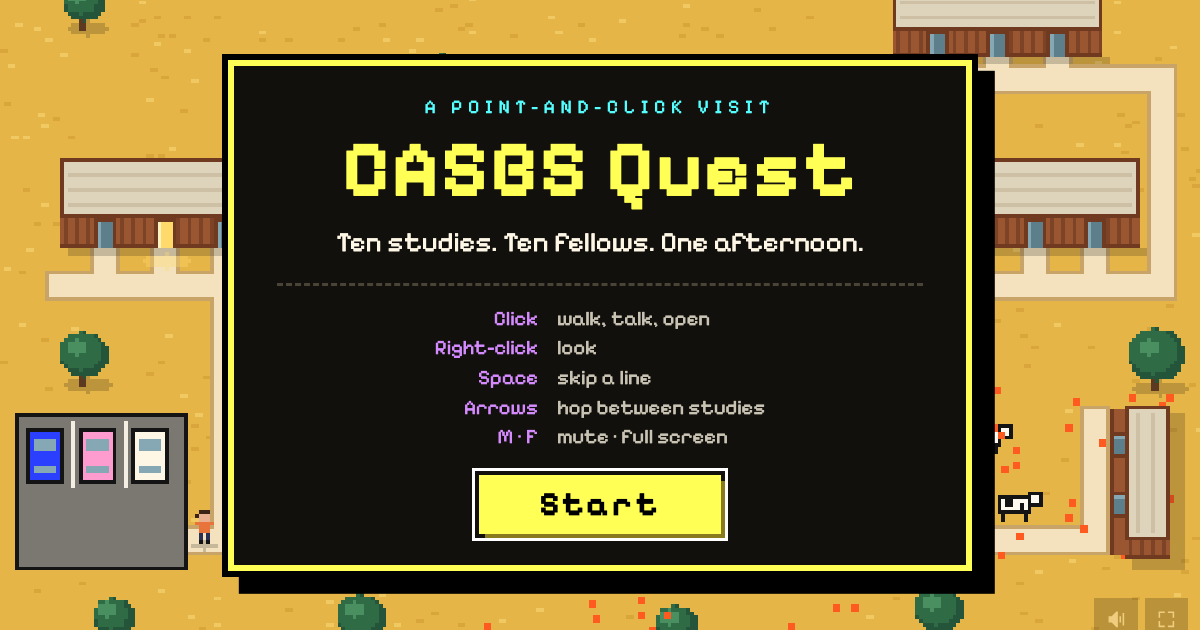
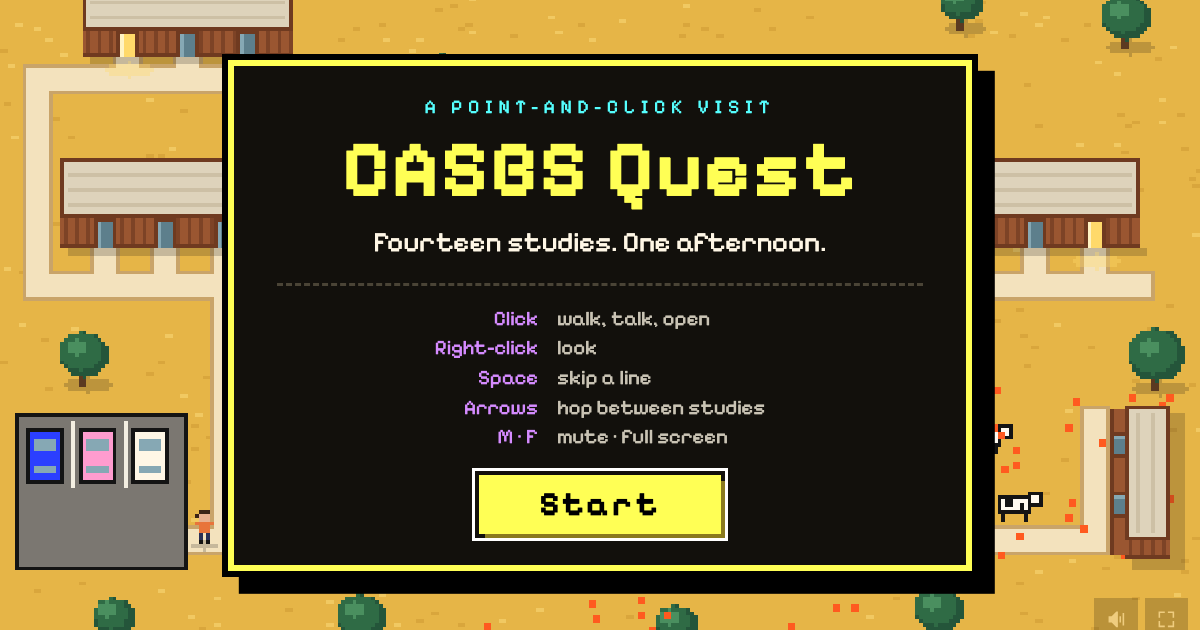
semibart: five lit studies you can walk into. Bart is now study 1 on the main hall; 2-5 open onto an empty room for now
Claude-Session: https://claude.ai/code/session_012SXcnpNP5HBdEeoRGXmBGw

diff --git a/public/semibart/index.html b/public/semibart/index.html
@@ -4,9 +4,9 @@
 <meta charset="utf-8">
 <meta name="viewport" content="width=device-width, initial-scale=1, viewport-fit=cover">
 <meta name="theme-color" content="#000000">
-<meta name="description" content="Ten studies. Ten fellows. One afternoon. A point-and-click walk through CASBS.">
+<meta name="description" content="Fourteen studies. One afternoon. A point-and-click walk through CASBS.">
 <meta property="og:title" content="CASBS Quest">
-<meta property="og:description" content="Ten studies. Ten fellows. One afternoon.">
+<meta property="og:description" content="Fourteen studies. One afternoon.">
 <meta property="og:url" content="https://ola.cx/semibart">
 <meta property="og:image" content="https://ola.cx/semibart/og.png">
 <meta property="og:image:width" content="1200">
@@ -98,7 +98,7 @@ button { font: inherit; background: none; border: 0; margin: 0; cursor: pointer;
     <div class="card">
       <p class="eyebrow">A point-and-click visit</p>
       <h1 id="titleH">CASBS Quest</h1>
-      <p class="tag">Ten studies. Ten fellows. One afternoon.</p>
+      <p class="tag">Fourteen studies. One afternoon.</p>
       <hr>
       <dl>
         <dt>Click</dt><dd>walk, talk, open</dd>
@@ -163,6 +163,10 @@ function wing(m, x, y, w, h, doorYs, side = -1) {
   rect(m, sx, y + 1, 4, h + 3, C.wall); rect(m, side < 0 ? sx : sx + 3, y + 1, 1, h + 3, C.fascia);
   doorYs.forEach(dy => { rect(m, sx, dy - 3, 4, 7, C.fascia); rect(m, gx, dy - 2, 3, 5, C.glass); rect(m, gx, dy - 2, 3, 1, C.glassHi); });
 }
+function litDoor(m, dx, top, h) {
+  rect(m, dx - 2, top, 4, h, C.lit); rect(m, dx - 2, top, 1, h, '#fff3c4');
+  oval(m, dx, top + h + 3, 6, 2, 'rgba(255,217,106,0.35)');
+}
 function oak(m, x, y, r) { oval(m, x + 1, y + r + 2, r, 2, C.shadow); rect(m, x - 1, y + r - 2, 2, 5, C.trunk); disc(m, x, y, r, C.oak2); disc(m, x - 1, y - 1, r - 1, C.oak); disc(m, x - Math.round(r / 3), y - Math.round(r / 3), Math.max(1, Math.round(r / 3)), C.oak3); }
 function car(m, x, y, col) { rect(m, x, y, 10, 15, C.ink); rect(m, x + 1, y + 1, 8, 13, col); rect(m, x + 2, y + 3, 6, 3, C.glassHi); rect(m, x + 2, y + 10, 6, 2, C.glassHi); }
 function cow(m, x, y) { rect(m, x, y + 2, 9, 5, C.ink); rect(m, x + 1, y + 3, 7, 3, '#fffaf0'); rect(m, x + 2, y + 3, 2, 2, C.ink); rect(m, x + 6, y + 4, 1, 2, C.ink); rect(m, x + 8, y + 1, 4, 4, C.ink); rect(m, x + 9, y + 2, 2, 2, '#fffaf0'); rect(m, x + 1, y + 7, 1, 2, C.ink); rect(m, x + 7, y + 7, 1, 2, C.ink); }
@@ -187,8 +191,8 @@ const mapBg = document.createElement('canvas'); mapBg.width = W; mapBg.height = 
   building(m, 128, 8, 64, 20, 10, [160], true);
   [140, 180].forEach(dx => { rect(m, dx - 3, 28, 6, 10, C.fascia); rect(m, dx - 2, 29, 4, 9, C.glass); rect(m, dx - 2, 29, 1, 9, C.glassHi); });
   building(m, 100, 98, 120, 16, 8, DOORS_C);
-  rect(m, 42, 47, 4, 7, C.lit); rect(m, 42, 47, 1, 7, '#fff3c4');
-  oval(m, 44, 57, 6, 2, 'rgba(255,217,106,0.35)');
+  // the five studies with the lights on
+  litDoor(m, 180, 29, 9); litDoor(m, 292, 47, 7); litDoor(m, 76, 47, 7); litDoor(m, 114, 115, 7);
   oak(m, 160, 79, 8);
   // the meeting room, just off the courtyard, its door facing the oak
   rect(m, 108, 77, 10, 7, C.path); rect(m, 108, 77, 10, 1, C.pathEdge); rect(m, 108, 83, 10, 1, C.pathEdge);
@@ -217,9 +221,9 @@ const mapBg = document.createElement('canvas'); mapBg.width = W; mapBg.height = 
 })();
 
 /* ---------- Bart's study ---------- */
-const roomBg = document.createElement('canvas'); roomBg.width = W; roomBg.height = H;
-(function () {
-  const m = roomBg.getContext('2d'), r = rng(23);
+function makeRoomBg(bart) {
+  const c = document.createElement('canvas'); c.width = W; c.height = H;
+  const m = c.getContext('2d'), r = rng(23);
   // wall: wood panels
   rect(m, 0, 0, W, 106, '#9a5631');
   for (let x = 0; x < W; x += 14) { rect(m, x, 4, 1, 102, '#7f4426'); rect(m, x + 1, 4, 1, 102, '#ac6a42'); }
@@ -250,6 +254,7 @@ const roomBg = document.createElement('canvas'); roomBg.width = W; roomBg.height
   rect(m, 108, 52, 1, 4, '#141414'); rect(m, 112, 52, 1, 4, '#141414'); oval(m, 110, 50, 4, 2, '#141414'); oval(m, 110, 50, 3, 1, '#fffaf0');
   rect(m, 70, 17, 2, 52, '#5c2e18'); rect(m, 95, 17, 2, 52, '#5c2e18');
   rect(m, 42, 72, 82, 3, '#5c2e18'); rect(m, 42, 72, 82, 1, '#c27e52');
+  if (bart) {
   // Takt poster
   rect(m, 130, 16, 22, 32, '#141414');
   rect(m, 134, 19, 14, 3, '#f0efea'); rect(m, 139, 22, 4, 9, '#f0efea');
@@ -258,6 +263,7 @@ const roomBg = document.createElement('canvas'); roomBg.width = W; roomBg.height
   rect(m, 158, 20, 30, 24, '#5c2e18'); rect(m, 160, 22, 26, 20, '#d9b48a');
   rect(m, 162, 24, 7, 7, '#ffd93b'); rect(m, 171, 25, 7, 6, '#ff9ccf'); rect(m, 163, 33, 8, 6, '#7ee0b5'); rect(m, 174, 33, 9, 7, '#fff7e6'); rect(m, 181, 24, 2, 2, '#ff5a1f');
   rect(m, 175, 35, 6, 1, '#2b3fff'); rect(m, 175, 37, 4, 1, '#2b3fff');
+  }
   // bookshelf
   rect(m, 266, 10, 48, 96, '#5c2e18'); rect(m, 269, 13, 42, 90, '#3d2112');
   const cols = ['#ff5a1f', '#2b3fff', '#ffd93b', '#ff9ccf', '#7ee0b5', '#fff7e6', '#c46a4a', '#34446e', '#2f6b45'];
@@ -267,8 +273,10 @@ const roomBg = document.createElement('canvas'); roomBg.width = W; roomBg.height
     while (x < 309) { const w = 2 + Math.floor(r() * 3), h = 10 + Math.floor(r() * 5); if (r() < 0.1 && k) { x += 4; continue; } rect(m, x, sy + 16 - h, Math.min(w, 309 - x), h, cols[Math.floor(r() * cols.length)]); x += w + (r() < 0.3 ? 1 : 0); }
   });
   // chair back
-  rect(m, 170, 58, 40, 3, '#141414'); rect(m, 168, 61, 44, 36, '#141414'); rect(m, 170, 61, 40, 36, '#3b3d4a'); rect(m, 170, 61, 40, 1, '#4f5262');
-})();
+  if (bart) { rect(m, 170, 58, 40, 3, '#141414'); rect(m, 168, 61, 44, 36, '#141414'); rect(m, 170, 61, 40, 36, '#3b3d4a'); rect(m, 170, 61, 40, 1, '#4f5262'); }
+  return c;
+}
+const roomBg = makeRoomBg(true), roomBgEmpty = makeRoomBg(false);
 
 /* ---------- characters ---------- */
 const P = { W: '#f6f3ec', w: '#d9d5c9', S: '#f2bda6', s: '#dc9d88', r: '#ee9f8f', b: '#e3dccb', E: '#3c5a80', M: '#b8695c', K: '#3a1c18', O: '#ffffff', N: '#1c2540', n: '#34446e', T: '#f2efe6', G: '#e2b23c', L: '#4a3a1e' };
@@ -344,18 +352,21 @@ const mapFull = document.createElement('canvas'); mapFull.width = W; mapFull.hei
   for (let i = 0; i < 120; i++) { const y = r() < 0.5 ? r() * OY : FH - OY + r() * OY; rect(m, r() * W, y, 2, 1, r() < 0.6 ? C.grass2 : C.grass3); }
   m.drawImage(mapBg, 0, OY);
   building(m, 22, 2, 56, 12, 7, DOORS_TOP);
+  litDoor(m, 34, 15, 6);
   [[256, 6, 5], [300, 10, 6], [96, 170, 6], [180, 172, 5], [250, 168, 6], [30, 170, 5]].forEach(o => oak(m, o[0], o[1], o[2]));
   for (let i = 0; i < 14; i++) rect(m, 120 + r() * 120, 164 + r() * 14, 2, 2, C.orange);
 })();
-const roomFull = document.createElement('canvas'); roomFull.width = W; roomFull.height = FH;
-(function () {
-  const m = roomFull.getContext('2d'), r = rng(5);
+function makeRoomFull(bg) {
+  const c = document.createElement('canvas'); c.width = W; c.height = FH;
+  const m = c.getContext('2d'), r = rng(5);
   rect(m, 0, 0, W, OY, '#d9c9a8'); rect(m, 0, OY - 3, W, 3, '#bfae8c');
   for (let x = 0; x < W; x += 40) rect(m, x, 0, 3, OY - 3, '#cbb994');
   rect(m, 150, 0, 2, 6, '#3b3d4a'); rect(m, 140, 6, 22, 5, '#ffd96a'); rect(m, 140, 6, 22, 1, '#fff3c4');
-  m.drawImage(roomBg, 0, OY);
+  m.drawImage(bg, 0, OY);
   for (let y = OY + H; y < FH; y += 3) { rect(m, 0, y, W, 3, (y / 3) % 2 ? '#c9a77a' : '#bf9c6e'); for (let k = 0; k < 3; k++) rect(m, Math.floor(r() * W), y, 1, 3, '#a8865b'); }
-})();
+  return c;
+}
+const roomFull = makeRoomFull(roomBg), roomFullEmpty = makeRoomFull(roomBgEmpty);
 
 /* ---------- sound ---------- */
 let AC = null, master = null, muted = false;
@@ -497,10 +508,20 @@ async function knockAndEnter() {
   SFX.knock(); await say('you', 'Knock, knock.');
   await enterRoom();
 }
+async function enterEmpty() {
+  SFX.knock(); await say('you', 'Knock, knock.');
+  await wait(0.5); await say('you', 'Nobody. The door is open, though.');
+  SFX.creak();
+  await fadeTo(true);
+  S.scene = 'room'; S.room = 'empty'; S.x = 30; S.y = 132; S.face = 1; S.path = [];
+  await fadeTo(false);
+  await walkTo([{ x: 120, y: 134 }]);
+  await say('you', "Empty. Nobody's moved in yet.");
+}
 async function enterRoom() {
   SFX.creak();
   await fadeTo(true);
-  S.scene = 'room'; S.x = 30; S.y = 132; S.face = 1; S.path = []; S.bart.mode = S.met ? 'idle' : 'type';
+  S.scene = 'room'; S.room = 'bart'; S.x = 30; S.y = 132; S.face = 1; S.path = []; S.bart.mode = S.met ? 'idle' : 'type';
   await fadeTo(false);
   await walkTo([{ x: 120, y: 134 }]);
   if (!S.met) {
@@ -518,7 +539,7 @@ async function exitRoom() {
   await goTo({ x: 40, y: 132 }); S.face = -1;
   SFX.creak();
   await fadeTo(true);
-  S.scene = 'map'; S.x = 44; S.y = 60; S.path = [];
+  S.scene = 'map'; S.x = S.door.walk.x; S.y = S.door.walk.y; S.path = [];
   await fadeTo(false);
 }
 async function ringPhone() {
@@ -536,7 +557,7 @@ async function lookPhone() {
   SFX.unzoom(); screenEl.hidden = true; S.zoomT = -1; cv.style.transform = '';
   await say('bart', 'Well?');
   await say('you', 'Eins, zwei, drei, vier.');
-  await say('bart', 'You found it. Nine more studies. Go knock.');
+  await say('bart', 'You found it. Thirteen more studies. Go knock.');
 }
 async function talkBart() {
   await say('you', S.talked ? 'Me again.' : 'Hi, Bart.');
@@ -570,11 +591,14 @@ async function talkBart() {
   }
 }
 
-const NOTES = { 2: 'At lunch. Lunch is sacred.', 3: 'Thinking under the oak.', 4: 'Back in five. Five what, unclear.', 5: 'In a seminar. Possibly this one.',
-  6: 'Walking to the Dish. Not listening to it.', 7: 'Writing. Do not knock. (You knocked.)', 8: 'Gone to see the cows. For research.', 9: 'Napping counts as fieldwork.', 10: 'Back after this paragraph.' };
+const NOTES = { 6: 'At lunch. Lunch is sacred.', 7: 'Thinking under the oak.', 8: 'Back in five. Five what, unclear.', 9: 'In a seminar. Possibly this one.',
+  10: 'Walking to the Dish. Not listening to it.', 11: 'Writing. Do not knock. (You knocked.)', 12: 'Gone to see the cows. For research.', 13: 'Napping counts as fieldwork.', 14: 'Back after this paragraph.' };
+function litStudy(n, r, walk) {
+  return { name: 'Study ' + n, study: true, r, walk, def: 'open', on: { look: n === 1 ? "Study 1. The light's on. Someone's typing in there." : `Study ${n}. The light's on.`, open: n === 1 ? knockAndEnter : enterEmpty } };
+}
 function lockedStudy(n, x, y) {
   return {
-    name: 'Study ' + n, r: y < 20 ? [x - 8, -16, 16, 20] : x > 290 ? [294, y - 8, 20, 16] : [x - 8, y < 98 ? 30 : 98, 16, 26], walk: y < 20 ? { x, y: 9 } : x > 290 ? { x: 292, y } : { x, y: y < 98 ? 60 : 128 }, def: 'open',
+    name: 'Study ' + n, study: true, r: y < 20 ? [x - 8, -16, 16, 20] : x > 290 ? [294, y - 8, 20, 16] : [x - 8, y < 98 ? 30 : 98, 16, 26], walk: y < 20 ? { x, y: 9 } : x > 290 ? { x: 292, y } : { x, y: y < 98 ? 60 : 128 }, def: 'open',
     on: {
       look: `Study ${n}. Dark. There's a note on the door.`,
       open: async () => { SFX.rattle(); await say('you', `Locked. The note says: "${NOTES[n]}"`); }
@@ -582,9 +606,10 @@ function lockedStudy(n, x, y) {
   };
 }
 const MAP = [
-  { name: 'Study 1', r: [34, 30, 20, 26], walk: { x: 44, y: 60 }, def: 'open', on: { look: "Study 1. The light's on. Someone's typing in there.", open: knockAndEnter } },
-  lockedStudy(2, 228, 60), lockedStudy(3, 276, 60), lockedStudy(4, 190, 128), lockedStudy(5, 130, 128),
-  lockedStudy(6, 34, 9), lockedStudy(7, 50, 9), lockedStudy(8, 66, 9), lockedStudy(9, 300, 106), lockedStudy(10, 300, 122),
+  litStudy(1, [172, 22, 16, 18], { x: 180, y: 44 }), litStudy(2, [26, -16, 16, 20], { x: 34, y: 9 }), litStudy(3, [284, 30, 16, 26], { x: 292, y: 60 }),
+  litStudy(4, [68, 30, 16, 26], { x: 76, y: 60 }), litStudy(5, [106, 98, 16, 26], { x: 114, y: 128 }),
+  lockedStudy(6, 44, 60), lockedStudy(7, 228, 60), lockedStudy(8, 276, 60), lockedStudy(9, 190, 128), lockedStudy(10, 130, 128),
+  lockedStudy(11, 50, 9), lockedStudy(12, 66, 9), lockedStudy(13, 300, 106), lockedStudy(14, 300, 122),
   { name: 'main hall', r: [128, 8, 64, 30], walk: { x: 160, y: 44 }, def: 'open', on: { look: 'The main hall. Lounge, mailboxes, coffee.', open: "Just the lounge. Nobody's in. Everybody's in their study." } },
   { name: 'meeting room', r: [80, 66, 30, 30], walk: { x: 112, y: 80 }, def: 'open', on: { look: 'The meeting room. Seminars happen in there. Like this one.', open: "Not yet. I haven't visited the studies." } },
   { name: 'picnic table', r: [122, 73, 20, 16], walk: { x: 132, y: 64 }, def: 'look', on: { look: 'A picnic table. Someone carved a regression line into it.', use: 'I sit for a second. Very restorative. Back to it.' } },
@@ -594,7 +619,12 @@ const MAP = [
   { name: 'cow', r: [252, 96, 30, 32], walk: { x: 240, y: 112 }, def: 'talk', on: { look: 'A cow. Looks tenured.', talk: [['you', 'Moo.'], ['cow', 'Moo.']] } },
   { name: 'parking lot', r: [4, 98, 46, 42], walk: { x: 54, y: 132 }, def: 'look', on: { look: 'Three cars. Nobody biked today.' } }
 ];
-const STUDIES = MAP.slice(0, 10);
+const STUDIES = MAP.filter(h => h.study);
+const ROOM_EMPTY = [
+  { name: 'bookshelf', r: [266, 10, 48, 90], walk: { x: 284, y: 132 }, def: 'look', on: { look: 'Books left by the last fellow. Mostly about time.', push: 'No secret passage. I checked.' } },
+  { name: 'window', r: [44, 14, 78, 60], walk: { x: 84, y: 130 }, def: 'look', on: { look: 'Same hills, same Dish. Good office, nobody in it.' } },
+  { name: 'door', r: [4, 30, 32, 76], walk: { x: 40, y: 132 }, def: 'open', on: { look: 'The way out.', open: exitRoom } }
+];
 const ROOM = [
   { name: 'plant', r: [284, 100, 22, 32], walk: { x: 270, y: 134 }, def: 'talk', on: { look: "It's thriving. Someone waters it.", talk: 'I tell the plant about my research. It grows a little.' } },
   { name: 'coffee mug', r: [204, 86, 13, 12], walk: { x: 212, y: 130 }, def: 'pick', on: { look: 'Coffee. Still hot. The mug says TAKT.', pick: "It's Bart's. He'd notice. He'd definitely notice." } },
@@ -608,9 +638,9 @@ const ROOM = [
   { name: 'pinboard', r: [158, 20, 30, 24], walk: { x: 172, y: 130 }, def: 'look', on: { look: 'Sticky notes. One says: ASK CLAUDE.' } },
   { name: 'bookshelf', r: [266, 10, 48, 90], walk: { x: 284, y: 132 }, def: 'push', on: { look: 'Social science. Lots of it.', push: 'No secret passage. I checked.' } },
   { name: 'window', r: [44, 14, 78, 60], walk: { x: 84, y: 130 }, def: 'look', on: { look: 'The hills, the Dish, Stanford down below. Good office.' } },
-  { name: 'door', r: [4, 30, 32, 76], walk: { x: 40, y: 132 }, def: 'open', on: { look: 'The way out. Nine more studies out there.', open: exitRoom } }
+  { name: 'door', r: [4, 30, 32, 76], walk: { x: 40, y: 132 }, def: 'open', on: { look: 'The way out. Thirteen more studies out there.', open: exitRoom } }
 ];
-function hotspots() { return S.scene === 'map' ? MAP : ROOM; }
+function hotspots() { return S.scene === 'map' ? MAP : S.room === 'empty' ? ROOM_EMPTY : ROOM; }
 function hit(x, y) { return hotspots().find(h => x >= h.r[0] && x < h.r[0] + h.r[2] && y >= h.r[1] && y < h.r[1] + h.r[3]); }
 async function perform(r) {
   if (typeof r === 'function') await r();
@@ -618,6 +648,7 @@ async function perform(r) {
   else if (Array.isArray(r)) for (const l of r) await say(l[0], l[1]);
 }
 async function doAction(verb, h) {
+  if (h.study) S.door = h;
   await goTo(h.walk);
   const cx = h.r[0] + h.r[2] / 2; if (Math.abs(cx - S.x) > 3) S.face = Math.sign(cx - S.x);
   const r = h.on[verb];
@@ -659,7 +690,7 @@ $('bFull').addEventListener('click', e => { e.stopPropagation(); fullscreen(); }
 function start() {
   if (S.started) return;
   audio(); S.started = true; titleEl.hidden = true; SFX.jingle(); cv.focus && cv.focus();
-  run(async () => { await wait(0.6); await say('you', 'CASBS. Ten studies.'); await say('you', "Somebody's typing in one of them."); });
+  run(async () => { await wait(0.6); await say('you', 'CASBS. Fourteen studies.'); await say('you', "Somebody's typing in one of them."); });
 }
 $('startBtn').addEventListener('click', e => { e.stopPropagation(); start(); });
 $('startBtn').focus({ preventScroll: true });
@@ -712,6 +743,14 @@ function drawMap(t) {
 }
 function drawRoom(t) {
   const B = S.bart;
+  if (S.room === 'empty') {
+    g.drawImage(roomFullEmpty, 0, 0);
+    g.save(); g.translate(0, OY);
+    const moving = S.path.length > 0, fr = moving ? 1 + Math.floor(t * 7) % 2 : 0;
+    drawYou(S.x, S.y, S.face, fr, S.line && S.line.who === 'you' && (calm || Math.floor(t * 8) % 2 === 0));
+    g.restore();
+    return;
+  }
   g.drawImage(roomFull, 0, 0);
   g.save(); g.translate(0, OY);
   const bartTalk = S.line && S.line.who === 'bart' && (calm || Math.floor(t * 8) % 2 === 0);
